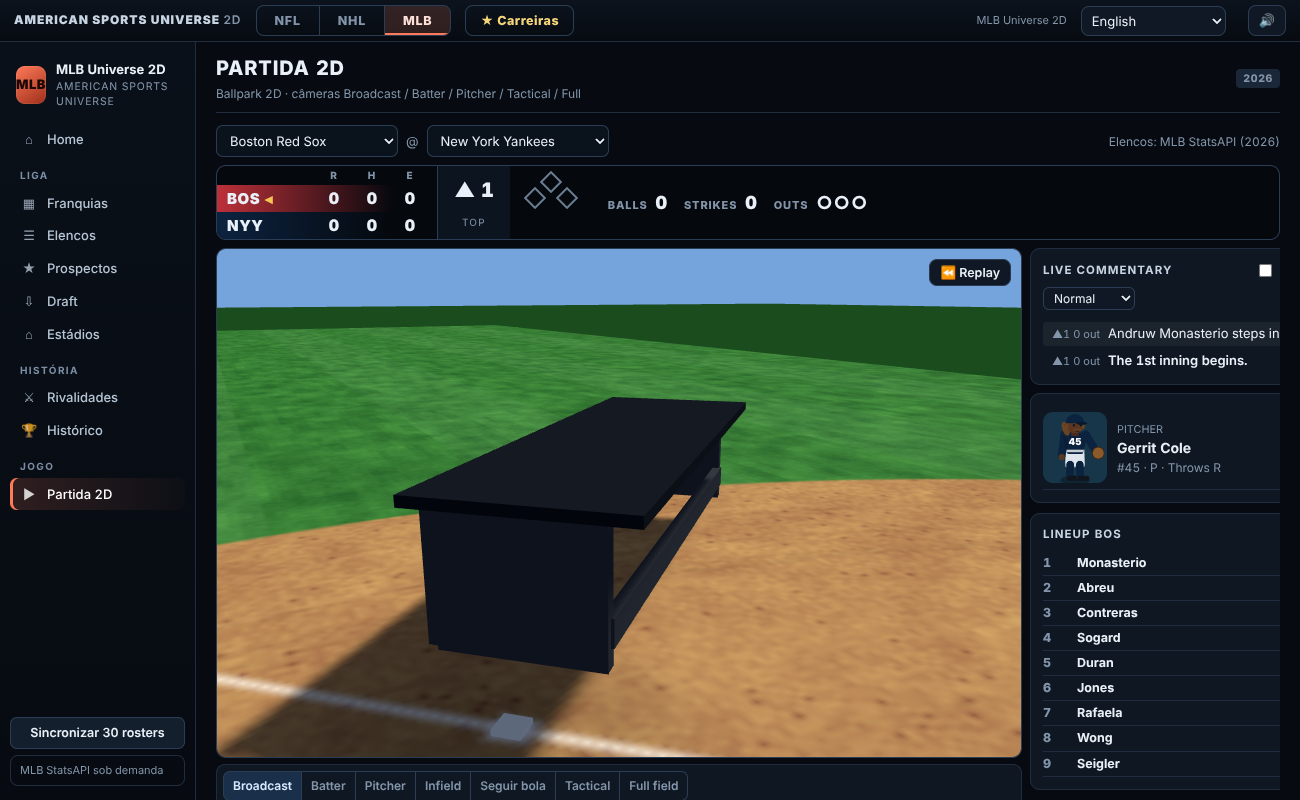
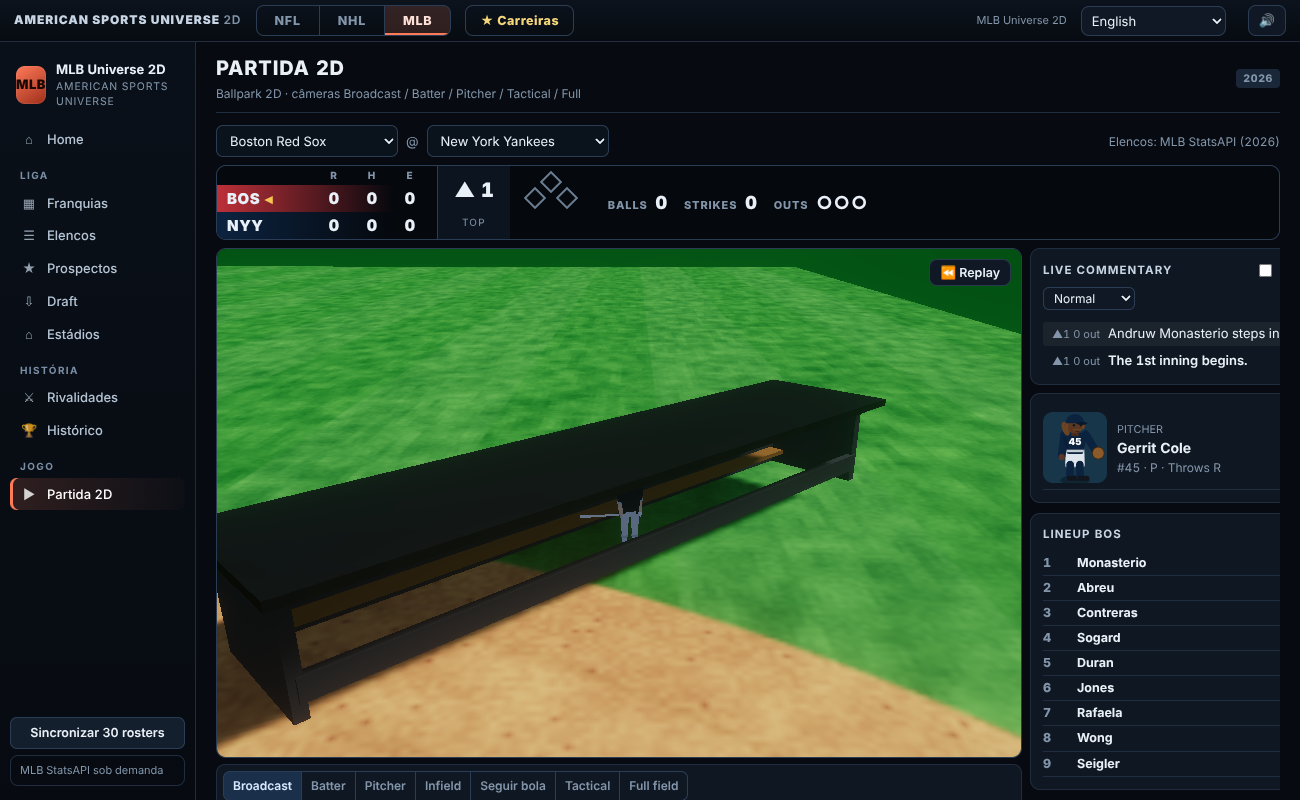
Bloom (Alta), reservas nos dugouts/bullpens do MLB, goleiro retirado no motor NHL (OT 14,6 -> ~18 %), docs/testes
Claude-Session: https://claude.ai/code/session_01JA32JZQqvtpAZjt9XwCLKg

diff --git a/sw-precache.js b/sw-precache.js
@@ -1,2 +1,2 @@
 // GENERATED by tools/build_sw_manifest.mjs — do not edit.
-self.ASU_SW = {"version":"a7953340","urls":["./","assets/icons/apple-touch-icon.png","assets/icons/icon-192.png","assets/icons/icon-512.png","assets/icons/icon-maskable-512.png","career/app.js","career/career.css","career/index.html","career/src/actions.js","career/src/core.js","career/src/saves.js","career/src/screens/dashboard.js","career/src/screens/market.js","career/src/screens/staff.js","career/src/screens/tactics.js","career/src/screens/team.js","career/src/screens/world.js","career/src/wizard.js","core/anim/clips/football_fouls.js","core/anim/clips/football_gestures.js","core/anim/clips/football_grabs.js","core/anim/clips/football_move.js","core/anim/clips/football_pass.js","core/anim/clips/football_qb.js","core/anim/clips/hockey_skate.js","core/anim/clips/sport_actions.js","core/anim/locomotion.js","core/anim/pose.js","core/anim/registry.js","core/audio/audioEngine.js","core/audio/crowdIntensity.js","core/career/api.js","core/career/bridge.js","core/career/calendar.js","core/career/careerCore.js","core/career/coach.js","core/career/curves.js","core/career/events.js","core/career/flow.js","core/career/gm.js","core/career/hooks.js","core/career/kit.js","core/career/league.js","core/career/news.js","core/career/people.js","core/career/picks.js","core/career/playerCareer.js","core/career/prel.js","core/career/recap.js","core/career/rulesKit.js","core/career/saveStore.js","core/career/specKit.js","core/career/staff.js","core/career/tactics.js","core/career/tradeAI.js","core/career/training.js","core/career/views.js","core/career/x.js","core/commentary/commentaryEngine.js","core/commentary/commentaryPanel.js","core/commentary/packs.js","core/commentary/pronounce.js","core/commentary/voiceCast.js","core/i18n/i18n.js","core/i18n/strings.js","core/presentation/atmosphere.js","core/presentation/presentationEngine.js","core/render/avatars.js","core/render/camera.js","core/render/crowd.js","core/render/hidpi.js","core/render/images.js","core/render/labels.js","core/render/spriteSheet.js","core/render/sprites.js","core/render/weather.js","core/render3d/athletes.js","core/render3d/autoQuality.js","core/render3d/crowdStands.js","core/render3d/decals.js","core/render3d/diamondScene.js","core/render3d/field.html","core/render3d/gallery.html","core/render3d/look.js","core/render3d/nflField.js","core/render3d/overlay.js","core/render3d/props.js","core/render3d/quality.js","core/render3d/replayEvents.js","core/render3d/rinkScene.js","core/render3d/stadium.js","core/render3d/stage.js","core/render3d/surfaces.js","core/rng/rng.js","core/saves/backup.js","core/ui/avatarEditor.js","core/ui/engineControls.js","core/ui/finalOverlay.js","core/ui/focus.css","core/ui/focusMode.js","core/ui/instantReplay.js","core/ui/mobileNav.css","core/ui/mobileNav.js","core/ui/perfHud.js","core/ui/touchZoom.js","index.html","manifest.webmanifest","mlb/data/mlb_core.json","mlb/data/roster_snapshot.json","mlb/index.html","mlb/js/app.js","mlb/js/data.js","mlb/mlb.css","mlb/src/adaptiveCtx.js","mlb/src/app.js","mlb/src/career/mlbRules.js","mlb/src/career/mlbSpec.js","mlb/src/field/fieldRenderer.js","mlb/src/field/fieldRenderer3d.js","mlb/src/field/geometry.js","mlb/src/game/engineHook.js","mlb/src/game/final.js","mlb/src/game/lineup.js","mlb/src/game/matchView.js","mlb/src/mlbData.js","mlb/src/photos.js","mlb/src/presentation/atmosphere.js","mlb/src/presentation/commentary.en.js","mlb/src/presentation/commentary.js","mlb/src/sim/adaptive.js","mlb/src/sim/baseballEngine.js","mlb/src/sim/pitching.js","mlb/src/sim/ratings.js","mlb/src/teamColors.js","mlb/styles.css","nfl/data/attributes.json","nfl/data/champions.json","nfl/data/roster_2026.csv","nfl/data/sources.json","nfl/data/teams.json","nfl/index.html","nfl/src/app.js","nfl/src/career/nflRules.js","nfl/src/career/nflSpec.js","nfl/src/core/gameplaySettings.js","nfl/src/core/rng.js","nfl/src/core/saveManager.js","nfl/src/dataService.js","nfl/src/game/career.js","nfl/src/game/match.js","nfl/src/nflEngine.js","nfl/src/presentation/atmosphere.js","nfl/src/presentation/commentary.en.js","nfl/src/presentation/commentary.js","nfl/src/ratings.js","nfl/src/sim/attributes.js","nfl/src/sim/ball.js","nfl/src/sim/blocking.js","nfl/src/sim/carrierMoves.js","nfl/src/sim/coverage.js","nfl/src/sim/explain.js","nfl/src/sim/formation.js","nfl/src/sim/fouls.js","nfl/src/sim/geometry.js","nfl/src/sim/movement.js","nfl/src/sim/playSim.js","nfl/src/sim/pocket.js","nfl/src/sim/qb.js","nfl/src/sim/rbVision.js","nfl/src/sim/routes.js","nfl/src/sim/runBlocking.js","nfl/src/sim/stats.js","nfl/src/sim/stunts.js","nfl/src/sim/tackle.js","nfl/src/ui/animationMap.js","nfl/src/ui/components.js","nfl/src/ui/director.js","nfl/src/ui/fieldRenderer.js","nfl/src/ui/fieldRenderer3d.js","nfl/src/ui/final.js","nfl/src/ui/gameView.js","nfl/src/ui/penalties.js","nfl/src/ui/photos.js","nfl/src/ui/render3dLogic.js","nfl/src/ui/replay.js","nfl/src/ui/teamColors.js","nfl/src/ui/views/career.js","nfl/src/ui/views/home.js","nfl/src/ui/views/misc.js","nfl/src/ui/views/player.js","nfl/src/ui/views/roster.js","nfl/src/ui/views/settings.js","nfl/styles.css","nhl/data/attributes.json","nhl/data/champions.json","nhl/data/rivalries.json","nhl/data/roster_snapshot.json","nhl/data/teams.json","nhl/index.html","nhl/js/app.js","nhl/js/data.js","nhl/nhl.css","nhl/src/app.js","nhl/src/career/nhlRules.js","nhl/src/career/nhlSpec.js","nhl/src/game/engineHook.js","nhl/src/game/final.js","nhl/src/game/lineup.js","nhl/src/game/matchView.js","nhl/src/nhlData.js","nhl/src/photos.js","nhl/src/presentation/atmosphere.js","nhl/src/presentation/commentary.en.js","nhl/src/presentation/commentary.js","nhl/src/rink/geometry.js","nhl/src/rink/rinkRenderer.js","nhl/src/rink/rinkRenderer3d.js","nhl/src/sim/hockeyEngine.js","nhl/src/sim/ratings.js","nhl/src/teamColors.js","nhl/styles.css","vendor/playcanvas/playcanvas.min.mjs"]};
+self.ASU_SW = {"version":"917048bd","urls":["./","assets/icons/apple-touch-icon.png","assets/icons/icon-192.png","assets/icons/icon-512.png","assets/icons/icon-maskable-512.png","career/app.js","career/career.css","career/index.html","career/src/actions.js","career/src/core.js","career/src/saves.js","career/src/screens/dashboard.js","career/src/screens/market.js","career/src/screens/staff.js","career/src/screens/tactics.js","career/src/screens/team.js","career/src/screens/world.js","career/src/wizard.js","core/anim/clips/football_fouls.js","core/anim/clips/football_gestures.js","core/anim/clips/football_grabs.js","core/anim/clips/football_move.js","core/anim/clips/football_pass.js","core/anim/clips/football_qb.js","core/anim/clips/hockey_skate.js","core/anim/clips/sport_actions.js","core/anim/locomotion.js","core/anim/pose.js","core/anim/registry.js","core/audio/audioEngine.js","core/audio/crowdIntensity.js","core/career/api.js","core/career/bridge.js","core/career/calendar.js","core/career/careerCore.js","core/career/coach.js","core/career/curves.js","core/career/events.js","core/career/flow.js","core/career/gm.js","core/career/hooks.js","core/career/kit.js","core/career/league.js","core/career/news.js","core/career/people.js","core/career/picks.js","core/career/playerCareer.js","core/career/prel.js","core/career/recap.js","core/career/rulesKit.js","core/career/saveStore.js","core/career/specKit.js","core/career/staff.js","core/career/tactics.js","core/career/tradeAI.js","core/career/training.js","core/career/views.js","core/career/x.js","core/commentary/commentaryEngine.js","core/commentary/commentaryPanel.js","core/commentary/packs.js","core/commentary/pronounce.js","core/commentary/voiceCast.js","core/i18n/i18n.js","core/i18n/strings.js","core/presentation/atmosphere.js","core/presentation/presentationEngine.js","core/render/avatars.js","core/render/camera.js","core/render/crowd.js","core/render/hidpi.js","core/render/images.js","core/render/labels.js","core/render/spriteSheet.js","core/render/sprites.js","core/render/weather.js","core/render3d/athletes.js","core/render3d/autoQuality.js","core/render3d/crowdStands.js","core/render3d/decals.js","core/render3d/diamondScene.js","core/render3d/field.html","core/render3d/gallery.html","core/render3d/look.js","core/render3d/nflField.js","core/render3d/overlay.js","core/render3d/props.js","core/render3d/quality.js","core/render3d/replayEvents.js","core/render3d/rinkScene.js","core/render3d/stadium.js","core/render3d/stage.js","core/render3d/surfaces.js","core/rng/rng.js","core/saves/backup.js","core/ui/avatarEditor.js","core/ui/engineControls.js","core/ui/finalOverlay.js","core/ui/focus.css","core/ui/focusMode.js","core/ui/instantReplay.js","core/ui/mobileNav.css","core/ui/mobileNav.js","core/ui/perfHud.js","core/ui/touchZoom.js","index.html","manifest.webmanifest","mlb/data/mlb_core.json","mlb/data/roster_snapshot.json","mlb/index.html","mlb/js/app.js","mlb/js/data.js","mlb/mlb.css","mlb/src/adaptiveCtx.js","mlb/src/app.js","mlb/src/career/mlbRules.js","mlb/src/career/mlbSpec.js","mlb/src/field/fieldRenderer.js","mlb/src/field/fieldRenderer3d.js","mlb/src/field/geometry.js","mlb/src/game/engineHook.js","mlb/src/game/final.js","mlb/src/game/lineup.js","mlb/src/game/matchView.js","mlb/src/mlbData.js","mlb/src/photos.js","mlb/src/presentation/atmosphere.js","mlb/src/presentation/commentary.en.js","mlb/src/presentation/commentary.js","mlb/src/sim/adaptive.js","mlb/src/sim/baseballEngine.js","mlb/src/sim/pitching.js","mlb/src/sim/ratings.js","mlb/src/teamColors.js","mlb/styles.css","nfl/data/attributes.json","nfl/data/champions.json","nfl/data/roster_2026.csv","nfl/data/sources.json","nfl/data/teams.json","nfl/index.html","nfl/src/app.js","nfl/src/career/nflRules.js","nfl/src/career/nflSpec.js","nfl/src/core/gameplaySettings.js","nfl/src/core/rng.js","nfl/src/core/saveManager.js","nfl/src/dataService.js","nfl/src/game/career.js","nfl/src/game/match.js","nfl/src/nflEngine.js","nfl/src/presentation/atmosphere.js","nfl/src/presentation/commentary.en.js","nfl/src/presentation/commentary.js","nfl/src/ratings.js","nfl/src/sim/attributes.js","nfl/src/sim/ball.js","nfl/src/sim/blocking.js","nfl/src/sim/carrierMoves.js","nfl/src/sim/coverage.js","nfl/src/sim/explain.js","nfl/src/sim/formation.js","nfl/src/sim/fouls.js","nfl/src/sim/geometry.js","nfl/src/sim/movement.js","nfl/src/sim/playSim.js","nfl/src/sim/pocket.js","nfl/src/sim/qb.js","nfl/src/sim/rbVision.js","nfl/src/sim/routes.js","nfl/src/sim/runBlocking.js","nfl/src/sim/stats.js","nfl/src/sim/stunts.js","nfl/src/sim/tackle.js","nfl/src/ui/animationMap.js","nfl/src/ui/components.js","nfl/src/ui/director.js","nfl/src/ui/fieldRenderer.js","nfl/src/ui/fieldRenderer3d.js","nfl/src/ui/final.js","nfl/src/ui/gameView.js","nfl/src/ui/penalties.js","nfl/src/ui/photos.js","nfl/src/ui/render3dLogic.js","nfl/src/ui/replay.js","nfl/src/ui/teamColors.js","nfl/src/ui/views/career.js","nfl/src/ui/views/home.js","nfl/src/ui/views/misc.js","nfl/src/ui/views/player.js","nfl/src/ui/views/roster.js","nfl/src/ui/views/settings.js","nfl/styles.css","nhl/data/attributes.json","nhl/data/champions.json","nhl/data/rivalries.json","nhl/data/roster_snapshot.json","nhl/data/teams.json","nhl/index.html","nhl/js/app.js","nhl/js/data.js","nhl/nhl.css","nhl/src/app.js","nhl/src/career/nhlRules.js","nhl/src/career/nhlSpec.js","nhl/src/game/engineHook.js","nhl/src/game/final.js","nhl/src/game/lineup.js","nhl/src/game/matchView.js","nhl/src/nhlData.js","nhl/src/photos.js","nhl/src/presentation/atmosphere.js","nhl/src/presentation/commentary.en.js","nhl/src/presentation/commentary.js","nhl/src/rink/geometry.js","nhl/src/rink/rinkRenderer.js","nhl/src/rink/rinkRenderer3d.js","nhl/src/sim/hockeyEngine.js","nhl/src/sim/ratings.js","nhl/src/teamColors.js","nhl/styles.css","vendor/playcanvas/playcanvas.min.mjs"]};

diff --git a/docs/upgrade/VALIDATION.md b/docs/upgrade/VALIDATION.md
@@ -36,3 +36,9 @@ Cada etapa é um commit separado na branch `ccr-1d32cd32-jtupys` (`git revert <h
 - **Atletas HD:** ponta da manga fechada (`athlete_hd.py`); o "pelo" branco no punho diminuiu mas não sumiu por completo.
 - **Motor de partida NHL (medido, 240 jogos, 4 duplas):** além do 3º período **14,6 %** (shootout 6,7 %), gols/jogo 6,37. A medida anterior de 7 % (60 jogos, 1 dupla) era amostra pequena. Real ≈ 23 % / ≈ 6,1: o motor fica abaixo em prorrogação. **Não alterei o motor** (mudaria o resultado das partidas 2D); backlog.
 - Revalidação: unitários 232/232; mlb3d 5/5, budget3d 10/10, athletes3d 5/5, nfl3d 7/7, nhl3d 5/5, fullhd3d 10/10.
+
+## Bloom, reservas do MLB e goleiro retirado do NHL (2026-11-27)
+- **Bloom** (`stage.js`, `pc.CameraFrame`): só em qualidade Alta + opção "Bloom" (🔊, `asu_3d_bloom`, padrão ligado). Renderiza em HDR, aplica bloom e o tone mapping passa para o compose. Verificado por captura (noite NFL: brilho e exposição diferentes) e `bloom3d.mjs` 6/6 (ativo só em Alta+ligado; sem erros). **Custo em fps não medido.**
+- **Reservas do MLB**: 16 atletas low-poly nos dugouts (5/time) e bullpens (3/time), mesma regra e mesmos pontos do 2D (jogadores fora do campo/base; comemoram runs). Dugouts/bullpens movidos para as coordenadas do 2D. `mlb3d.mjs` 6/6 (>= 6 reservas em campo).
+- **Goleiro retirado no motor NHL** (`hockeyEngine.js`): atrás por 1 com ≤ 150 s (ou por 2 com ≤ 90 s) no 3º período, sem pena própria, na bola ao chão (faceoff) o goleiro sai, entra um 6º atacante (chute ×3), rede vazia = gol em chute no alvo; gols em rede vazia (`strength:'EN'`) não contam como GA do goleiro; volta quando empata/vira. Eventos `GOALIE_PULLED` / `GOALIE_RETURNS`, comentários PT/EN. **Medido (4×60 jogos, 240 no total):** além do 3º período **~17,5–18 %** (antes 14,6 %; real ≈ 23 %), retiradas 0,3–0,4/jogo, rede vazia 0,15/jogo, gols/jogo 6,5 (real ~6,1), 0 NaN. Os parâmetros (95→150 s, ×2,2→×3) mudaram pouco a taxa: o resto da diferença vem de como o motor empata em 60 min — continua abaixo do real; backlog.
+- Testes: unitários 233/233, smoke 33/33, nhl3d 5/5, budget3d 10/10, fullhd3d 10/10. Testes do motor ajustados: GA exclui rede vazia; LINE_CHANGE aceita 6.

diff --git a/docs/LANCAMENTO.md b/docs/LANCAMENTO.md
@@ -48,6 +48,7 @@ Não se aplica: o projeto é de **uso pessoal e não será publicado**. (Se isso
 |---|---|---|
 | **Qualidade 3D** | **Alta (padrão)** / Auto / Baixa / Média | Baixa: sem sombras, pixel ratio 1, atletas low-poly. Auto começa em Média e **desce sozinha** se o tempo médio de quadro passar de 28 ms (sobe só com folga). |
 | **Full HD no 3D** | ligado (padrão) / desligado | Na qualidade Alta o 3D renderiza em **pelo menos 1920 px de largura** (supersampling, depois reduzido pelo navegador = bordas limpas; teto 3x). Desligue se o fps cair. |
+| **Bloom** | ligado (padrão) / desligado | Brilho suave nas luzes (refletores, telão, gelo claro); só na qualidade Alta (pós-processamento HDR da engine). Desligue se o fps cair. |
 | **FPS do 3D** | 30 / 45 / 60 (padrão) / 75 / 90 / 100 | Teto de quadros por segundo; a GPU fica ociosa nos quadros pulados (menos calor e bateria). O monitor limita o máximo real. |
 | **Mostrar FPS** | liga/desliga | Mede o desempenho real (use isto para me passar os números). |
 | Botão 🌗 **Luz** (NFL) | auto (padrão) → dia → tarde → noite | Iluminação, névoa e refletores; Auto segue o quarto (Q3 tarde, Q4 noite). Telão com o placar no estádio. |
